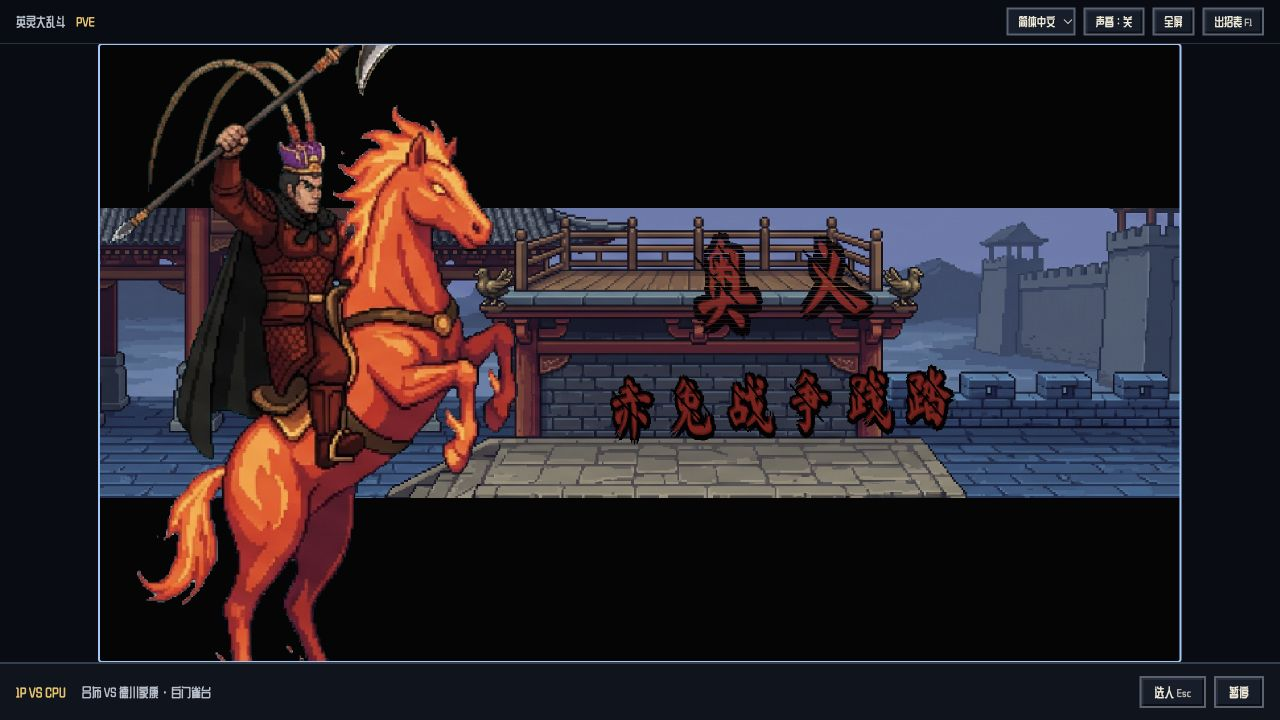
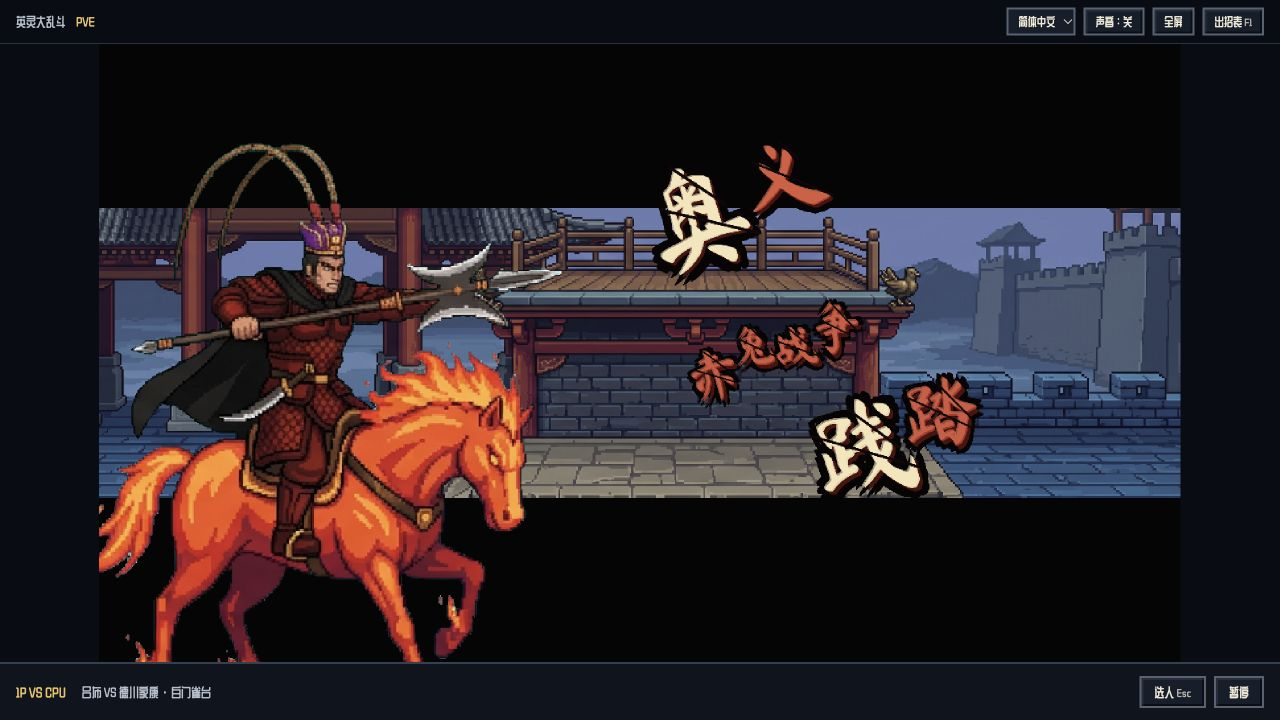
Give super cut-ins oversized staggered diagonal lettering

Changed region(s): [[0.0625, 0.0611, 0.9375, 0.9167], [0.75, 0.275, 0.9375, 0.3972], [0.9062, 0.3667, 0.9375, 0.3972]]

diff --git a/game/src/game.js b/game/src/game.js
@@ -1255,19 +1255,38 @@
 
   let _fierceKanjiSeq = 0;
 
-  /** 奥义字：刀刻感——字距拉开、红黑对半、硬边斜切，避免一团饱和红 */
+  // Keep the move readable as a phrase, with the impact word breaking its baseline.
+  function cutinLettering(text, fontSize, latin, tag) {
+    const chars = Array.from(text);
+    let rows;
+    if (tag) rows = [{ text, size: fontSize, x: 0, y: 0, tag: true }];
+    else if (latin && text.includes(" ")) {
+      const words = text.split(/\s+/);
+      const impact = words.pop().toUpperCase();
+      rows = [
+        { text: words.join(" "), size: fontSize * 0.88, x: -70, y: -74 },
+        { text: impact, size: fontSize * 1.56, x: 28, y: 54, impact: true },
+      ];
+    } else if (!latin && chars.length > 2) {
+      const split = text === "三河魂" || text === "铁十字之辉" ? chars.length - 1 :
+        text === "去城市化" ? 1 : chars.length - 2;
+      rows = [
+        { text: chars.slice(0, split).join(""), size: fontSize * 0.94, x: -84, y: -76 },
+        { text: chars.slice(split).join(""), size: fontSize * 1.62, x: 42, y: 48, impact: true },
+      ];
+    } else rows = [{ text: latin ? text.toUpperCase() : text, size: fontSize * 1.3, x: 0, y: 0, impact: true }];
+    return rows;
+  }
+
+  /** 刀刻字效：大字破框、错落基线、字粒独立倾斜；语言切换保留正在播放的入场动画。 */
   function makeSekiroBrushKanji(scene, source, fontSize, opts = {}) {
     const root = scene.add.container(0, 0).setScrollFactor(0);
     const paint = () => {
       root.removeAll(true);
-      const english = window.HeroI18n?.language === "en";
-      const child = paintSuperTitleGlyph(scene, english ? t(source).toUpperCase() : source,
-        english ? Math.max(64, fontSize) : fontSize, {
-          ...opts,
-          latin: english,
-          tracking: english ? 4 : opts.tracking,
-        });
-      root.add(child);
+      const latin = window.HeroI18n?.language === "en";
+      root.add(paintSuperTitleGlyph(scene, t(source), fontSize, {
+        ...opts, latin, tag: source === "奥义",
+      }));
     };
     paint();
     const off = window.HeroI18n?.onChange(paint);
@@ -1276,171 +1295,114 @@
   }
 
   function paintSuperTitleGlyph(scene, text, fontSize, opts = {}) {
-    const rot = opts.rot ?? -0.07;
-    const fill = opts.fill || "#8a1414";
-    const hot = opts.hot || "#c42828";
-    const tracking = opts.tracking != null ? opts.tracking : Math.round(fontSize * 0.42);
-    const chars = Array.from(String(text || ""));
-    const n = Math.max(1, chars.length);
+    const rot = opts.rot ?? -0.18;
     const uid = `fierce-kanji-${++_fierceKanjiSeq}`;
-    // Measure Latin glyphs instead of spacing every letter like a full-width Han glyph.
     const measure = document.createElement("canvas").getContext("2d");
     if (!measure) return scene.add.container(0, 0).setScrollFactor(0);
-    const font = opts.latin ? `bold ${Math.round(fontSize)}px GameUI, monospace` :
-      `${Math.round(fontSize)}px BrushUI, STKaiti, KaiTi, serif`;
-    measure.font = font;
-    const widths = chars.map(ch => opts.latin ? measure.measureText(ch).width : fontSize);
-    const textWidth = widths.reduce((sum, width) => sum + width, 0) + (n - 1) * tracking;
-    const padX = Math.ceil(fontSize * 0.7);
-    const padY = Math.ceil(fontSize * 0.95);
-    const tw = Math.ceil(textWidth + padX * 2);
-    const th = Math.ceil(fontSize * 1.75 + padY * 2);
-    const hi = 3;
+    const fontAt = size => opts.latin ? `bold ${Math.round(size)}px GameUI, Impact, sans-serif` :
+      `${Math.round(size)}px BrushUI, STKaiti, KaiTi, serif`;
+    const glyphs = [];
+    const rows = cutinLettering(String(text || ""), fontSize, opts.latin, opts.tag);
+    rows.forEach(row => {
+      const chars = Array.from(row.text);
+      const rowGlyphs = chars.map((ch, i) => {
+        const large = row.tag ? (i === 0 ? 1.6 : i === chars.length - 1 ? 1.23 : 0.94) :
+          row.impact ? (i === 0 ? 1.28 : i % 3 === 1 ? 0.93 : 1.08) : (i % 3 === 0 ? 1.13 : 0.91);
+        const size = row.size * large;
+        measure.font = fontAt(size);
+        const width = opts.latin ? measure.measureText(ch).width : size;
+        return { ch, size, width, angle: [-0.09, 0.065, -0.035, 0.09][i % 4],
+          // A paper-colored lead glyph punches through the red lettering.
+          accent: i === 0 && (row.tag || row.impact) };
+      });
+      const tracking = opts.latin ? 1 : -row.size * 0.09;
+      const width = rowGlyphs.reduce((sum, g) => sum + g.width + tracking, -tracking);
+      let cursor = row.x - width / 2;
+      rowGlyphs.forEach((g, i) => {
+        g.x = cursor + g.width / 2;
+        g.y = row.y - i * (row.tag ? 8 : 4) + [12, -10, 5, -5][i % 4];
+        cursor += g.width + tracking;
+        glyphs.push(g);
+      });
+    });
+    // Fit the *rotated* ink bounds, including oversized glyphs and their heavy rim.
+    const points = glyphs.flatMap(g => {
+      const angle = rot + g.angle;
+      const cx = g.x * Math.cos(rot) - g.y * Math.sin(rot);
+      const cy = g.x * Math.sin(rot) + g.y * Math.cos(rot);
+      const x = g.width / 2 + g.size * 0.16;
+      const y = g.size * 0.8;
+      return [[-x,-y], [x,-y], [x,y], [-x,y]].map(([dx,dy]) => ({
+        x: cx + dx * Math.cos(angle) - dy * Math.sin(angle),
+        y: cy + dx * Math.sin(angle) + dy * Math.cos(angle),
+      }));
+    });
+    const minX = Math.min(0, ...points.map(p => p.x)) - 14;
+    const maxX = Math.max(0, ...points.map(p => p.x)) + 14;
+    const minY = Math.min(0, ...points.map(p => p.y)) - 14;
+    const maxY = Math.max(0, ...points.map(p => p.y)) + 14;
+    const tw = maxX - minX, th = maxY - minY;
+    const fit = Math.min(1, scene.scale.width * 0.54 / tw, 370 / th);
+    const w = Math.ceil(tw * fit), h = Math.ceil(th * fit), hi = 3;
     const canvas = document.createElement("canvas");
-    canvas.width = Math.max(8, tw * hi);
-    canvas.height = Math.max(8, th * hi);
+    canvas.width = Math.max(8, w * hi);
+    canvas.height = Math.max(8, h * hi);
     const ctx = canvas.getContext("2d");
-    if (!ctx) {
-      return scene.add.container(0, 0).setScrollFactor(0);
-    }
-    ctx.imageSmoothingEnabled = false;
-    ctx.setTransform(hi, 0, 0, hi, 0, 0);
-    ctx.translate(tw / 2, th / 2);
+    if (!ctx) return scene.add.container(0, 0).setScrollFactor(0);
+    ctx.setTransform(hi * fit, 0, 0, hi * fit, -minX * hi * fit, -minY * hi * fit);
     ctx.rotate(rot);
-    // 刀刻：略拉高、略收窄
-    ctx.scale(0.9, 1.22);
     ctx.textAlign = "center";
     ctx.textBaseline = "middle";
-    ctx.font = font;
     ctx.lineJoin = "miter";
     ctx.miterLimit = 2;
-
-    let cursor = -textWidth / 2;
-    const positions = widths.map(width => {
-      const center = cursor + width / 2;
-      cursor += width + tracking;
-      return center;
-    });
-    const inkAt = (ch, x, dx, dy, color, alpha = 1) => {
+    const inkAt = (g, color, dx = 0, dy = 0, alpha = 1) => {
+      ctx.save();
+      ctx.translate(g.x, g.y);
+      ctx.rotate(g.angle);
+      ctx.font = fontAt(g.size);
       ctx.globalAlpha = alpha;
       ctx.fillStyle = color;
-      ctx.fillText(ch, x + dx, dy);
+      ctx.fillText(g.ch, dx, dy);
+      ctx.restore();
     };
-
-    // ① 厚黑刀底（主体分量）
-    const rim = Math.max(4, Math.round(fontSize * 0.07));
-    chars.forEach((ch, i) => {
-      const x = positions[i];
-      [
-        [rim, rim + 1],
-        [-rim, rim],
-        [rim, -rim],
-        [-rim, -rim],
-        [0, rim + 2],
-        [rim + 2, 0],
-        [-rim - 1, 0],
-        [0, -rim - 1],
-      ].forEach(([dx, dy]) => inkAt(ch, x, dx, dy, "#050203", 1));
+    glyphs.forEach(g => {
+      const rim = Math.max(5, g.size * 0.07);
+      [[rim,rim+3], [-rim,rim], [rim,-rim], [-rim,-rim], [0,rim+4], [rim+2,0], [-rim-2,0], [0,-rim]]
+        .forEach(([dx,dy]) => inkAt(g, "#070405", dx, dy));
     });
-
-    // ② 暗红刻面（偏暗、不饱和，与黑对半）
-    chars.forEach((ch, i) => {
-      const x = positions[i];
-      inkAt(ch, x, 0.5, 0.5, "#2a0808", 1);
-      inkAt(ch, x, 0, 0, fill, 1);
+    glyphs.forEach(g => {
+      inkAt(g, "#4c100e", 3, 5);
+      inkAt(g, g.accent ? "#e9d3a3" : opts.fill || "#ab3024");
     });
-
-    // ③ 单侧刃口高光（只刮一条边，避免整字变亮红块）
-    chars.forEach((ch, i) => {
-      const x = positions[i];
-      inkAt(ch, x, -1.4, -2.0, hot, 0.38);
+    glyphs.forEach(g => inkAt(g, g.accent ? "#fff0c7" : "#ee7450", -1.4, -2, 0.6));
+    // Slash inside existing ink, without drawing stray lines across transparent gaps.
+    ctx.globalCompositeOperation = "source-atop";
+    glyphs.forEach(g => {
+      ctx.save();
+      ctx.translate(g.x, g.y);
+      ctx.rotate(g.angle);
+      ctx.strokeStyle = "#120708";
+      ctx.lineWidth = Math.max(2, g.size * 0.025);
+      const r = g.size * 0.46;
+      ctx.beginPath(); ctx.moveTo(-r, -r * 0.55); ctx.lineTo(r, r * 0.7); ctx.stroke();
+      ctx.beginPath(); ctx.moveTo(-r * 0.2, -r); ctx.lineTo(r * 0.8, r * 0.3); ctx.stroke();
+      ctx.restore();
     });
-
-    // ④ 斜刀黑切：切开红面，露出黑口，红黑交错
-    ctx.globalAlpha = 1;
-    ctx.strokeStyle = "#030101";
-    ctx.lineWidth = Math.max(2.2, fontSize * 0.028);
-    ctx.lineCap = "square";
-    chars.forEach((ch, i) => {
-      const x = positions[i];
-      const s = fontSize * 0.48;
-      ctx.beginPath();
-      ctx.moveTo(x - s * 0.85, -s * 0.55);
-      ctx.lineTo(x + s * 0.55, s * 0.7);
-      ctx.stroke();
-      ctx.beginPath();
-      ctx.moveTo(x - s * 0.15, -s * 0.75);
-      ctx.lineTo(x + s * 0.75, s * 0.25);
-      ctx.stroke();
-    });
-
-    // 阈值硬化 + 边缘啃齿
+    ctx.globalCompositeOperation = "source-over";
     const img = ctx.getImageData(0, 0, canvas.width, canvas.height);
     const d = img.data;
-    const wpx = canvas.width;
-    const hpx = canvas.height;
-    const solid = new Uint8Array(wpx * hpx);
-    for (let i = 0, p = 0; i < d.length; i += 4, p++) {
-      const a = d[i + 3];
-      if (a < 52) {
-        d[i + 3] = 0;
-        continue;
-      }
-      const r = d[i];
-      const g = d[i + 1];
-      const b = d[i + 2];
-      // 压掉过饱和大红：偏亮的红往暗红收
-      if (r > 160 && r > g * 2.2 && r > b * 2.2) {
-        d[i] = Math.round(r * 0.62 + 28);
-        d[i + 1] = Math.round(g * 0.55 + 6);
-        d[i + 2] = Math.round(b * 0.55 + 6);
-      }
-      // 灰雾边 → 实黑或剔掉
-      if (a < 170 && r < 55 && g < 40 && b < 40) {
-        if (a > 100) {
-          d[i] = 5;
-          d[i + 1] = 2;
-          d[i + 2] = 2;
-          d[i + 3] = 255;
-          solid[p] = 1;
-        } else {
-          d[i + 3] = 0;
-        }
-        continue;
-      }
-      d[i + 3] = 255;
-      solid[p] = 1;
-    }
-    for (let y = 1; y < hpx - 1; y++) {
-      for (let x = 1; x < wpx - 1; x++) {
-        const p = y * wpx + x;
-        if (!solid[p]) continue;
-        let empty = 0;
-        if (!solid[p - 1]) empty++;
-        if (!solid[p + 1]) empty++;
-        if (!solid[p - wpx]) empty++;
-        if (!solid[p + wpx]) empty++;
-        if (empty === 0) continue;
-        if ((x * 41 + y * 19 + p) % 6 === 0 || empty >= 3) {
-          d[p * 4 + 3] = 0;
-          solid[p] = 0;
-        }
+    // Keep ragged, hard ink edges at game scale without flattening the warm highlights.
+    for (let y = 0; y < canvas.height; y++) {
+      for (let x = 0; x < canvas.width; x++) {
+        const i = (y * canvas.width + x) * 4;
+        if (d[i+3] < 65) d[i+3] = 0;
+        else if (d[i+3] < 190 && (x * 41 + y * 19) % 5 === 0) d[i+3] = 0;
       }
     }
     ctx.putImageData(img, 0, 0);
-
-    if (scene.textures.exists(uid)) {
-      try {
-        scene.textures.remove(uid);
-      } catch {
-        /* ignore */
-      }
-    }
     scene.textures.addCanvas(uid, canvas);
     const spr = scene.add.image(0, 0, uid).setOrigin(0.5).setScrollFactor(0);
-    // The texture is baked at 3x resolution, but occupies logical game pixels.
-    const fit = Math.min(1, scene.scale.width * 0.58 / tw);
-    spr.setDisplaySize(tw * fit, th * fit);
+    spr.setDisplaySize(w, h);
     if (spr.texture?.setFilter) spr.texture.setFilter(Phaser.Textures.FilterMode.LINEAR);
     spr.once("destroy", () => { if (scene.textures.exists(uid)) scene.textures.remove(uid); });
     return spr;
@@ -4952,24 +4914,21 @@
 
       const moveName = this.superMoveName(actor);
       const tag = makeSekiroBrushKanji(this, "奥义", 118, {
-        rot: faceRight ? -0.06 : 0.06,
-        fill: "#7a1616",
-        hot: "#b42222",
-        tracking: 58,
+        rot: faceRight ? -0.24 : 0.19,
+        fill: "#b73224",
       });
-      tag.setPosition(faceRight ? w * 0.63 : w * 0.37, h * 0.38);
+      tag.setPosition(faceRight ? w * 0.58 : w * 0.42, h * 0.27);
       tag.setScale(2.05);
       tag.setAlpha(0);
 
       const nameSize = moveName.length >= 6 ? 64 : moveName.length >= 4 ? 76 : 84;
-      const nameTrack = moveName.length >= 6 ? 18 : moveName.length >= 4 ? 24 : 28;
       const name = makeSekiroBrushKanji(this, moveName, nameSize, {
-        rot: faceRight ? -0.04 : 0.04,
-        fill: "#6e1414",
-        hot: "#a81e1e",
-        tracking: nameTrack,
+        rot: faceRight ? -0.19 : 0.17,
+        fill: "#ab3024",
       });
-      name.setPosition(faceRight ? w * 0.63 : w * 0.37, h * 0.58);
+      const nameX = faceRight ? w * 0.68 : w * 0.32;
+      const nameY = h * 0.6;
+      name.setPosition(nameX + (faceRight ? 110 : -110), nameY + 54);
       name.setScale(1.7);
       name.setAlpha(0);
 
@@ -5087,6 +5046,8 @@
       this.tweens.add({
         targets: name,
         alpha: 1,
+        x: nameX,
+        y: nameY,
         scale: 1,
         duration: 120,
         delay: 420,

diff --git a/README.md b/README.md
@@ -24,9 +24,11 @@ Real gameplay, captured with the English interface and English super-move effect
 
 ### Supers · L
 
+Oversized lead letters, staggered words and diagonal motion give each super its own impact frame.
+
 | Lu Bu · Red Hare Rampage | Hawking · Singularity |
 | --- | --- |
-| ![English super cut-in: mounted Lu Bu with SUPER and RED HARE RAMPAGE carved lettering](docs/media/en/red-hare-super.jpg) | ![English super cut-in: Stephen Hawking, a black hole, and SUPER and SINGULARITY carved lettering](docs/media/en/singularity-super.jpg) |
+| ![English super cut-in: mounted Lu Bu with SUPER and Red Hare / RAMPAGE lettering with oversized lead characters and staggered angles](docs/media/en/red-hare-super.jpg) | ![English super cut-in: Stephen Hawking, a black hole, and SUPER and SINGULARITY lettering with oversized lead characters and staggered angles](docs/media/en/singularity-super.jpg) |
 
 ### Pixel-art arenas
 
@@ -50,7 +52,7 @@ Open <http://127.0.0.1:8788>. Stop the server with `Ctrl+C`. It binds to localho
 
 Choose **English** or **简体中文** from the language selector in the top toolbar. Chinese is the original default. Your explicit choice is saved in this browser and restored on later visits; the browser or operating-system language does not override it.
 
-Switching updates the interface immediately and preserves fighter picks, stage, difficulty and the current fight. Menus, the Move List, loading and error messages, built-in fighter and stage names, and super-move titles have English text. Super cut-ins render their carved titles in the selected language, including `SUPER`, `RED HARE RAMPAGE` and `SINGULARITY` in English. Switching during a cut-in repaints its lettering without restarting the move. Existing voice recordings and text baked into imported artwork remain unchanged.
+Switching updates the interface immediately and preserves fighter picks, stage, difficulty and the current fight. Menus, the Move List, loading and error messages, built-in fighter and stage names, and super-move titles have English text. Super cut-ins render their carved titles in the selected language, using `SUPER` and English move names with uppercase impact words such as `RAMPAGE` and `SINGULARITY`. Switching during a cut-in repaints its lettering without restarting the move. Existing voice recordings and text baked into imported artwork remain unchanged.
 
 Imported asset packs may provide `displayNameEn` or `i18n.en.displayName` in `fighter.json` / `stage.json`. Without an English name, the original authored name is shown. Source metadata is never rewritten by switching languages. If browser storage is unavailable, language changes work for the current page session.
 

diff --git a/game/tests/README.md b/game/tests/README.md
@@ -48,6 +48,8 @@ Language switching does not translate voice recordings or text embedded in artwo
 - Real keyboard input triggered Lu Bu’s halberd throw and mounted super, Newton’s spectrum beam, and Hawking’s super. The README gallery has seven real screenshots per language: selection, two skills, two super cut-ins and two arenas. Each README references only its own language directory.
 - Super cut-ins use the same red/black carved effect in both languages. Latin titles use measured glyph widths; the 3x baked textures render at logical dimensions. Live language switching repaints an active cut-in; selection headings, loading headings, the Select footer label and the ready indicator also follow the chosen language.
 
+2026-11-20: Super lettering now varies glyph size, baseline and angle, splits prefixes from enlarged impact words, uses paper-colored lead glyphs, and enters diagonally. Chinese and English Lu Bu / Hawking cut-ins were exercised and their four README screenshots replaced. The 29 regressions also check font-size and angle variation, both facing angles, rotated bounds and texture disposal for all nine built-in titles.
+
 ## Performance boundaries
 
 The game retains a maximum 1024×576 preview texture, per-texture frame-scan caching, loading only the current battle stage, and 30 Hz HUD updates while combat runs every frame. Selection no longer polls room or roster data; refresh after importing assets. No measured FPS or total-memory claim is made.

diff --git a/game/tests/README.zh-CN.md b/game/tests/README.zh-CN.md
@@ -48,6 +48,8 @@
 - 使用真实键盘触发吕布掷戟与赤兔奥义、牛顿光谱射线、霍金奥义。中英文 README 各有七张实机截图：选人、两种小技能、两种奥义演出与两处战场，各自仅引用本语种目录。
 - 中英文奥义共用红黑刀刻字效；英文按实际字宽排版，三倍分辨率贴图按逻辑尺寸显示。演出中切换语言会重绘当前字效；选人标题、加载标题、底部选人状态和技能就绪标记也随语言更新。
 
+2026-11-20：奥义文字增加独立字粒大小、基线高低与倾角；前缀和放大的关键字分层，主字以纸色提亮，招名斜向入场。实机检查了中英文吕布 / 霍金奥义，并更新四张 README 奥义截图。29 条回归同时检查九名内置英灵招名的字号与角度变化、双方朝向的旋转边界和贴图回收。
+
 ## 性能边界
 
 保留预览图最大 1024×576 的纹理限制、按纹理对象缓存帧扫描、每局只加载当前战场，以及 30 Hz 的 HUD 更新；战斗仍逐帧运行。选人不再轮询联机信息或名单，导入新资源后刷新页面。没有实测 FPS / 总内存数字，不据此作数值承诺。

diff --git a/README.zh-CN.md b/README.zh-CN.md
@@ -24,9 +24,11 @@
 
 ### 奥义 · L
 
+关键字放大、字词错落与斜向入场，让奥义演出更有冲击力。
+
 | 吕布 · 赤兔战争践踏 | 霍金 · 奇点演说 |
 | --- | --- |
-| ![中文奥义演出：骑乘赤兔的吕布，配有奥义与赤兔战争践踏刀刻字效](docs/media/zh-CN/red-hare-super.jpg) | ![中文奥义演出：霍金与黑洞，配有奥义与奇点演说刀刻字效](docs/media/zh-CN/singularity-super.jpg) |
+| ![中文奥义演出：骑乘赤兔的吕布，配有奥义与赤兔战争践踏字效，关键字放大、错落斜排](docs/media/zh-CN/red-hare-super.jpg) | ![中文奥义演出：霍金与黑洞，配有奥义与奇点演说字效，关键字放大、错落斜排](docs/media/zh-CN/singularity-super.jpg) |
 
 ### 像素战场
 
